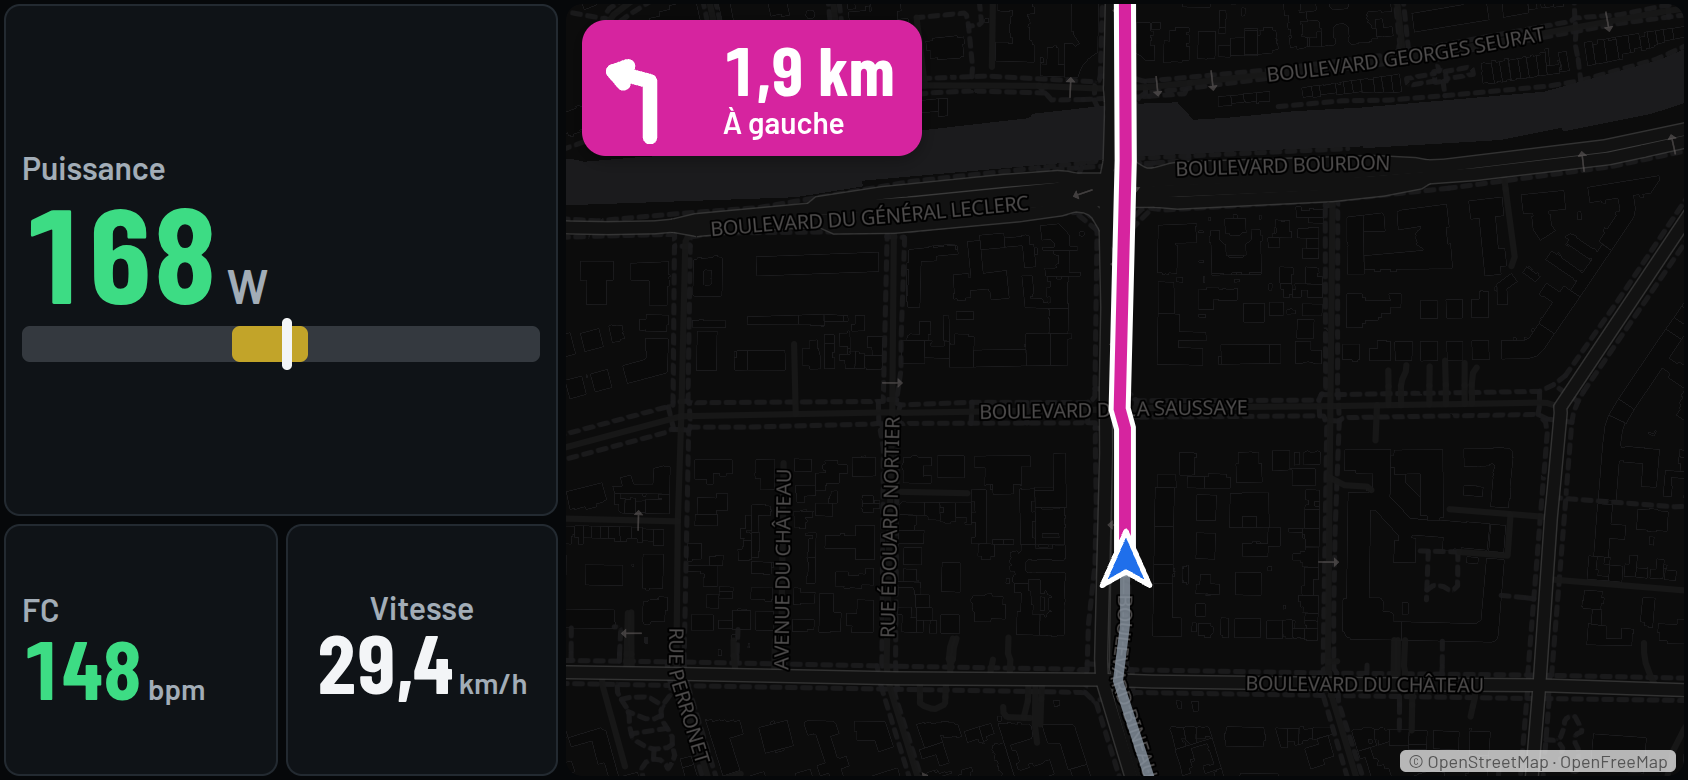
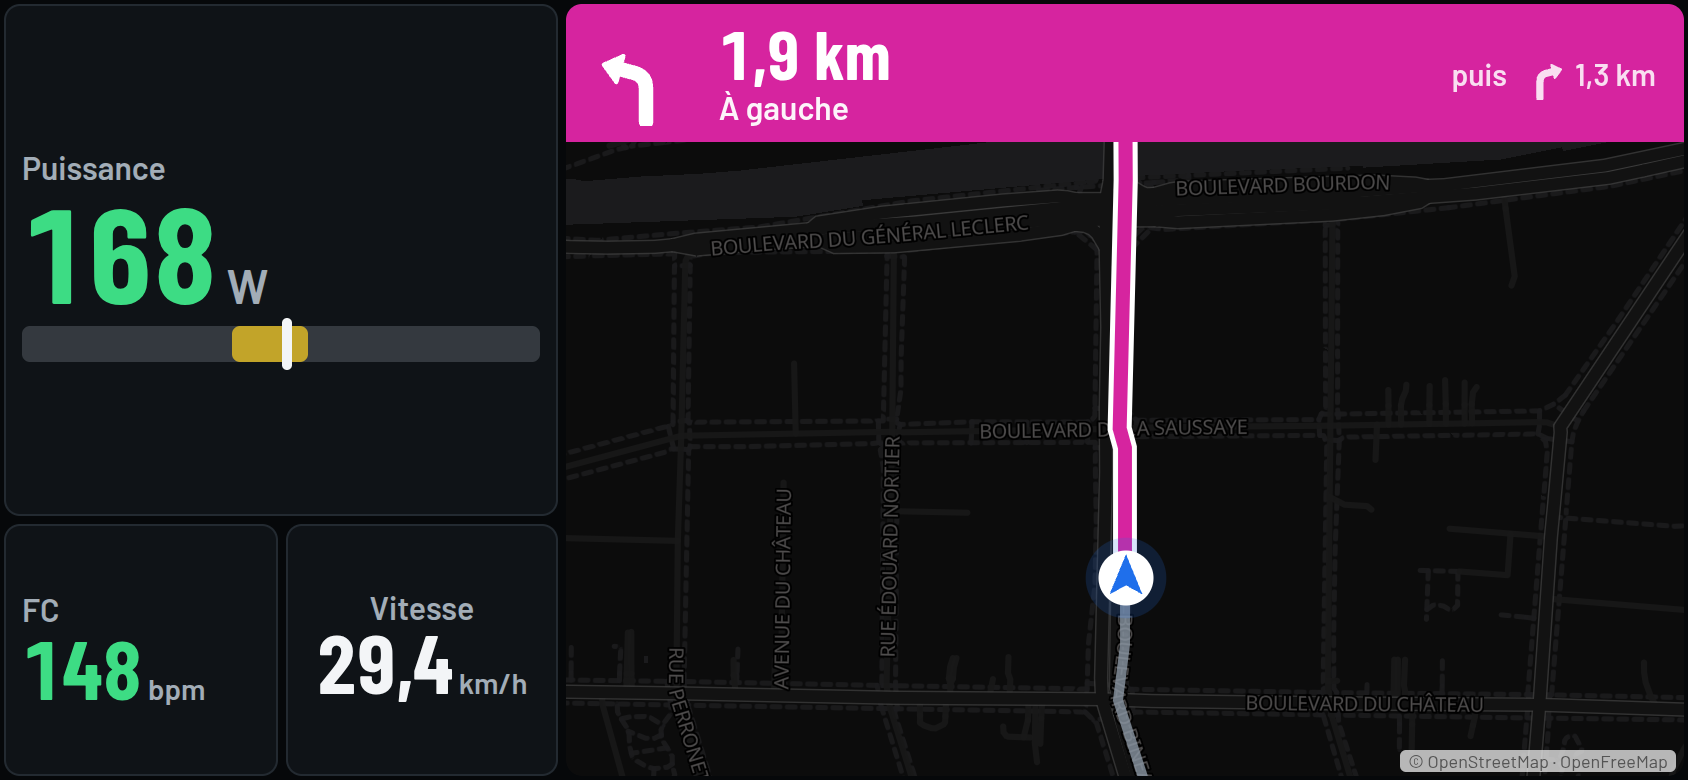
Navigation (prototype) : carte épurée, bandeau de virage, flèches redessinées
Claude-Session: https://claude.ai/code/session_01N9VnUnmKgeeNg6EvTe4348

diff --git a/src/dev/navproto.tsx b/src/dev/navproto.tsx
@@ -41,15 +41,18 @@ const fm = (m: number) => (m < 1000 ? `${Math.round(m / 10) * 10} m` : `${(m / 1
 const NAV = '#d6249f', DONE = '#8a96a3'
 const turnWord = (x: Turn) => (x.kind === 'demi' ? 'Demi-tour' : x.kind === 'serre' ? `Serré à ${x.side}` : x.kind === 'leger' ? `Légèrement à ${x.side}` : `À ${x.side}`)
 
-/** Flèche de virage : un trait qui monte puis tourne de l'angle du virage. */
+/** Flèche de virage : tige verticale, courbe de l'angle du virage, pointe pleine dans l'axe de sortie. */
 function TurnArrow({ turn, size = 64, color = 'currentColor' }: { turn: Turn | null; size?: number; color?: string }) {
-  const a = turn ? (turn.side === 'droite' ? 1 : -1) * Math.min(turn.angle, 170) : 0
-  const r = (a * Math.PI) / 180, x2 = 50 + 34 * Math.sin(r), y2 = 44 - 34 * Math.cos(r)
-  const hx = (k: number) => x2 + 14 * Math.sin(r + k), hy = (k: number) => y2 - 14 * Math.cos(r + k)
+  const a = turn ? (turn.side === 'droite' ? 1 : -1) * Math.min(turn.angle, 160) : 0
+  const r = (a * Math.PI) / 180, sx = Math.sin(r), cy = Math.cos(r)
+  // Coude en (50, 52) ; sortie de 26 unités dans la direction du virage ; pointe de 16.
+  const ex = 50 + 26 * sx, ey = 52 - 26 * cy, tx = ex + 16 * sx, ty = ey - 16 * cy
+  const px = -cy, py = -sx
+  const head = `M${tx.toFixed(1)} ${ty.toFixed(1)} L${(ex + 13 * px).toFixed(1)} ${(ey + 13 * py).toFixed(1)} L${(ex - 13 * px).toFixed(1)} ${(ey - 13 * py).toFixed(1)} Z`
   return (
     <svg viewBox="0 0 100 100" width={size} height={size} aria-hidden>
-      <path d={`M50 94 L50 44 L${x2.toFixed(1)} ${y2.toFixed(1)}`} fill="none" stroke={color} strokeWidth="13" strokeLinecap="round" strokeLinejoin="round" />
-      <path d={`M${hx(Math.PI - 0.6).toFixed(1)} ${hy(Math.PI - 0.6).toFixed(1)} L${x2.toFixed(1)} ${y2.toFixed(1)} L${hx(Math.PI + 0.6).toFixed(1)} ${hy(Math.PI + 0.6).toFixed(1)}`} fill="none" stroke={color} strokeWidth="13" strokeLinecap="round" strokeLinejoin="round" />
+      <path d={`M50 96 L50 64 Q50 52 ${(50 + 12 * sx).toFixed(1)} ${(52 - 12 * cy).toFixed(1)} L${ex.toFixed(1)} ${ey.toFixed(1)}`} fill="none" stroke={color} strokeWidth="14" strokeLinecap="round" strokeLinejoin="round" />
+      <path d={head} fill={color} stroke={color} strokeWidth="4" strokeLinejoin="round" />
     </svg>
   )
 }
@@ -81,19 +84,25 @@ function NavMap({ lat, lon, head, zoom = 16, pitch = 0, offLine, h }: { lat: num
       container: el.current!, style: `https://tiles.openfreemap.org/styles/${night ? 'dark' : 'liberty'}`, center: [lon, lat], zoom, bearing: head, pitch,
       interactive: false, attributionControl: false, canvasContextAttributes: { preserveDrawingBuffer: true },
     })
-    map.setPadding({ top: h * 0.45, bottom: 0, left: 0, right: 0 })
+    map.setPadding({ top: h * 0.5, bottom: 0, left: 0, right: 0 })
     map.on('load', () => {
+      // Carte calme : routes, eau, verdure et noms de rues ; ni commerces, ni arrêts de bus, ni bâtiments, ni numéros de route.
+      for (const l of map.getStyle().layers) {
+        const id = l.id
+        const keepLabel = /^(highway[-_]name|road[-_]label|water[-_]name|place[-_](city|town|village|suburb))/i.test(id)
+        if (/poi|building|transit|aerodrome|aeroway|housenumber|bus|rail|ferry|boundary|shield|oneway|bridge_pattern|tunnel_pattern/i.test(id) || (l.type === 'symbol' && !keepLabel)) map.setLayoutProperty(id, 'visibility', 'none')
+      }
       map.addSource('done', { type: 'geojson', data: line(0, offLine ? 5200 : POS) })
       map.addSource('todo', { type: 'geojson', data: line(offLine ? 0 : POS, t.total) })
-      map.addLayer({ id: 'todo-c', type: 'line', source: 'todo', paint: { 'line-color': '#fff', 'line-width': 11 }, layout: { 'line-cap': 'round', 'line-join': 'round' } })
-      map.addLayer({ id: 'todo', type: 'line', source: 'todo', paint: { 'line-color': NAV, 'line-width': 6 }, layout: { 'line-cap': 'round', 'line-join': 'round' } })
+      map.addLayer({ id: 'todo-c', type: 'line', source: 'todo', paint: { 'line-color': '#fff', 'line-width': 12 }, layout: { 'line-cap': 'round', 'line-join': 'round' } })
+      map.addLayer({ id: 'todo', type: 'line', source: 'todo', paint: { 'line-color': NAV, 'line-width': 7 }, layout: { 'line-cap': 'round', 'line-join': 'round' } })
       if (!offLine) map.addLayer({ id: 'done', type: 'line', source: 'done', paint: { 'line-color': DONE, 'line-width': 5, 'line-opacity': 0.8 }, layout: { 'line-cap': 'round' } })
       if (offLine) {
         map.addSource('back', { type: 'geojson', data: { type: 'Feature', properties: {}, geometry: { type: 'LineString', coordinates: offLine } } })
         map.addLayer({ id: 'back', type: 'line', source: 'back', paint: { 'line-color': '#e5484d', 'line-width': 4, 'line-dasharray': [1.5, 1.5] } })
       }
       const m = document.createElement('div')
-      m.innerHTML = `<svg viewBox="0 0 40 40" width="34" height="34"><path d="M20 3 L34 35 L20 27 L6 35 Z" fill="#1f6feb" stroke="#fff" stroke-width="3" stroke-linejoin="round"/></svg>`
+      m.innerHTML = `<svg viewBox="0 0 48 48" width="44" height="44"><circle cx="24" cy="24" r="22" fill="#1f6feb" fill-opacity=".18"/><circle cx="24" cy="24" r="15" fill="#fff"/><path d="M24 11 L33 33 L24 28 L15 33 Z" fill="#1f6feb"/></svg>`
       new maplibregl.Marker({ element: m, rotation: head, rotationAlignment: 'map', pitchAlignment: 'map' }).setLngLat([lon, lat]).addTo(map)
     })
     return () => map.remove()
@@ -144,16 +153,20 @@ function Off2x1() {
 function Off1x1() {
   return <div style={{ position: 'absolute', inset: 0, display: 'grid', placeItems: 'center', alignContent: 'center', gap: 2, color: '#e5484d', background: 'color-mix(in srgb, #e5484d 12%, transparent)' }}><OffArrow rel={off.rel} size={62} /><div style={big(26)}>{fm(off.off)}</div></div>
 }
-/** Bandeau de virage posé sur la carte. */
-const TurnChip = ({ small }: { small?: boolean }) => (
-  <div style={{ position: 'absolute', left: 8, top: 8, display: 'flex', alignItems: 'center', gap: 8, padding: small ? '4px 10px 4px 4px' : '6px 14px 6px 6px', borderRadius: 12, background: NAV, color: '#fff', boxShadow: '0 2px 8px rgba(0,0,0,.3)' }}>
-    <TurnArrow turn={t1} size={small ? 40 : 56} color="#fff" />
-    <div><div style={{ fontFamily: 'var(--num)', fontWeight: 700, fontSize: small ? 26 : 34, lineHeight: 1 }}>{fm(t1!.d - POS)}</div>{!small && <div style={{ font: '600 15px Barlow' }}>{turnWord(t1!)}</div>}</div>
+/** Bandeau de virage, collé en haut de la carte : flèche, distance, consigne ; le virage suivant à droite en grand. */
+const TurnBand = ({ compact }: { compact?: boolean }) => (
+  <div style={{ position: 'absolute', left: 0, right: 0, top: 0, display: 'flex', alignItems: 'center', gap: 10, padding: compact ? '6px 10px' : '8px 14px', background: NAV, color: '#fff' }}>
+    <TurnArrow turn={t1} size={compact ? 40 : 52} color="#fff" />
+    <div style={{ flex: 1, minWidth: 0 }}>
+      <div style={{ fontFamily: 'var(--num)', fontWeight: 700, fontSize: compact ? 28 : 34, lineHeight: 1 }}>{fm(t1!.d - POS)}</div>
+      {!compact && <div style={{ font: '600 16px Barlow', opacity: 0.95 }}>{turnWord(t1!)}</div>}
+    </div>
+    {!compact && t2 && <div style={{ display: 'flex', alignItems: 'center', gap: 4, font: '600 15px Barlow', opacity: 0.85 }}>puis <TurnArrow turn={t2} size={26} color="#fff" /> {fm(t2.d - t1!.d)}</div>}
   </div>
 )
-const OffChip = () => (
-  <div style={{ position: 'absolute', left: 8, top: 8, right: 8, display: 'flex', alignItems: 'center', gap: 10, padding: '6px 12px 6px 6px', borderRadius: 12, background: '#e5484d', color: '#fff' }}>
-    <OffArrow rel={off.rel} size={50} />
+const OffBand = ({ compact }: { compact?: boolean }) => (
+  <div style={{ position: 'absolute', left: 0, right: 0, top: 0, display: 'flex', alignItems: 'center', gap: 10, padding: compact ? '6px 10px' : '8px 14px', background: '#e5484d', color: '#fff' }}>
+    <OffArrow rel={off.rel} size={compact ? 38 : 48} />
     <div><div style={{ font: '700 18px Barlow' }}>Hors parcours</div><div style={{ font: '600 15px Barlow' }}>tracé {off.side} · {fm(off.off)}</div></div>
   </div>
 )
@@ -165,7 +178,7 @@ function MapWidget({ w, h, pitch = 0, offMode }: { w: number; h: number; pitch?:
       {offMode
         ? <NavMap lat={offLat} lon={offLon} head={offHeading} zoom={15} h={pxH} offLine={[[offLon, offLat], [o!.lon, o!.lat]]} />
         : <NavMap lat={here.lat} lon={here.lon} head={heading} zoom={w * h >= 6 ? 15 : 14.6} pitch={pitch} h={pxH} />}
-      {offMode ? <OffChip /> : <TurnChip small={w * h <= 4} />}
+      {offMode ? <OffBand compact={w * h <= 4} /> : <TurnBand compact={w * h <= 4} />}
     </>
   )
 }
@@ -204,7 +217,7 @@ function Ecran({ portrait, pitch }: { portrait?: boolean; pitch?: number }) {
       <div className="wg" style={{ left: nav.x * cw, top: nav.y * ch, width: nav.w * cw, height: nav.h * ch, position: 'absolute' }}>
         <div className="wi" style={{ position: 'absolute', inset: 2, padding: 0, overflow: 'hidden' }}>
           <NavMap lat={here.lat} lon={here.lon} head={heading} zoom={pitch ? 15.6 : 15} pitch={pitch ?? 0} h={nav.h * ch} />
-          <TurnChip />
+          <TurnBand />
         </div>
       </div>
     </div>

diff --git a/docs/ETUDE-NAVIGATION.md b/docs/ETUDE-NAVIGATION.md
@@ -25,7 +25,7 @@ Un seul widget **Navigation**, toutes tailles :
 
 - **1×1** : flèche du prochain virage + distance. Hors parcours : boussole rouge qui pointe vers le tracé + distance.
 - **2×1** : flèche, distance, « À gauche », et le virage suivant (« puis à droite · 1,3 km »). Hors parcours : « Hors parcours · 140 m · tracé derrière à droite ».
-- **2×2 et plus** : carte en couleur tournée dans ton sens de marche, toi en bas, le tracé en magenta (déjà fait en gris), le prochain virage dans une pastille magenta en haut à gauche. Hors parcours : pastille rouge « Hors parcours · tracé derrière · 140 m » et ligne pointillée rouge jusqu'au tracé.
+- **2×2 et plus** : carte en couleur, épurée (routes, eau, verdure et noms de rues ; ni commerces, ni arrêts, ni bâtiments), tournée dans ton sens de marche, toi en bas, le tracé en magenta (déjà fait en gris). Le prochain virage dans un bandeau magenta collé en haut (flèche, distance, consigne, et « puis ↱ 1,3 km »). Hors parcours : bandeau rouge « Hors parcours · tracé derrière · 140 m » et ligne pointillée rouge jusqu’au tracé.
 - **Plein écran ou presque** (4×3, portrait 3×3) : la même carte, avec les widgets d'effort à côté. Variante en perspective (vue 3D inclinée) à trancher.
 - **Nuit** : carte sombre (même tracé magenta), basculée avec le reste de l'écran.
 
